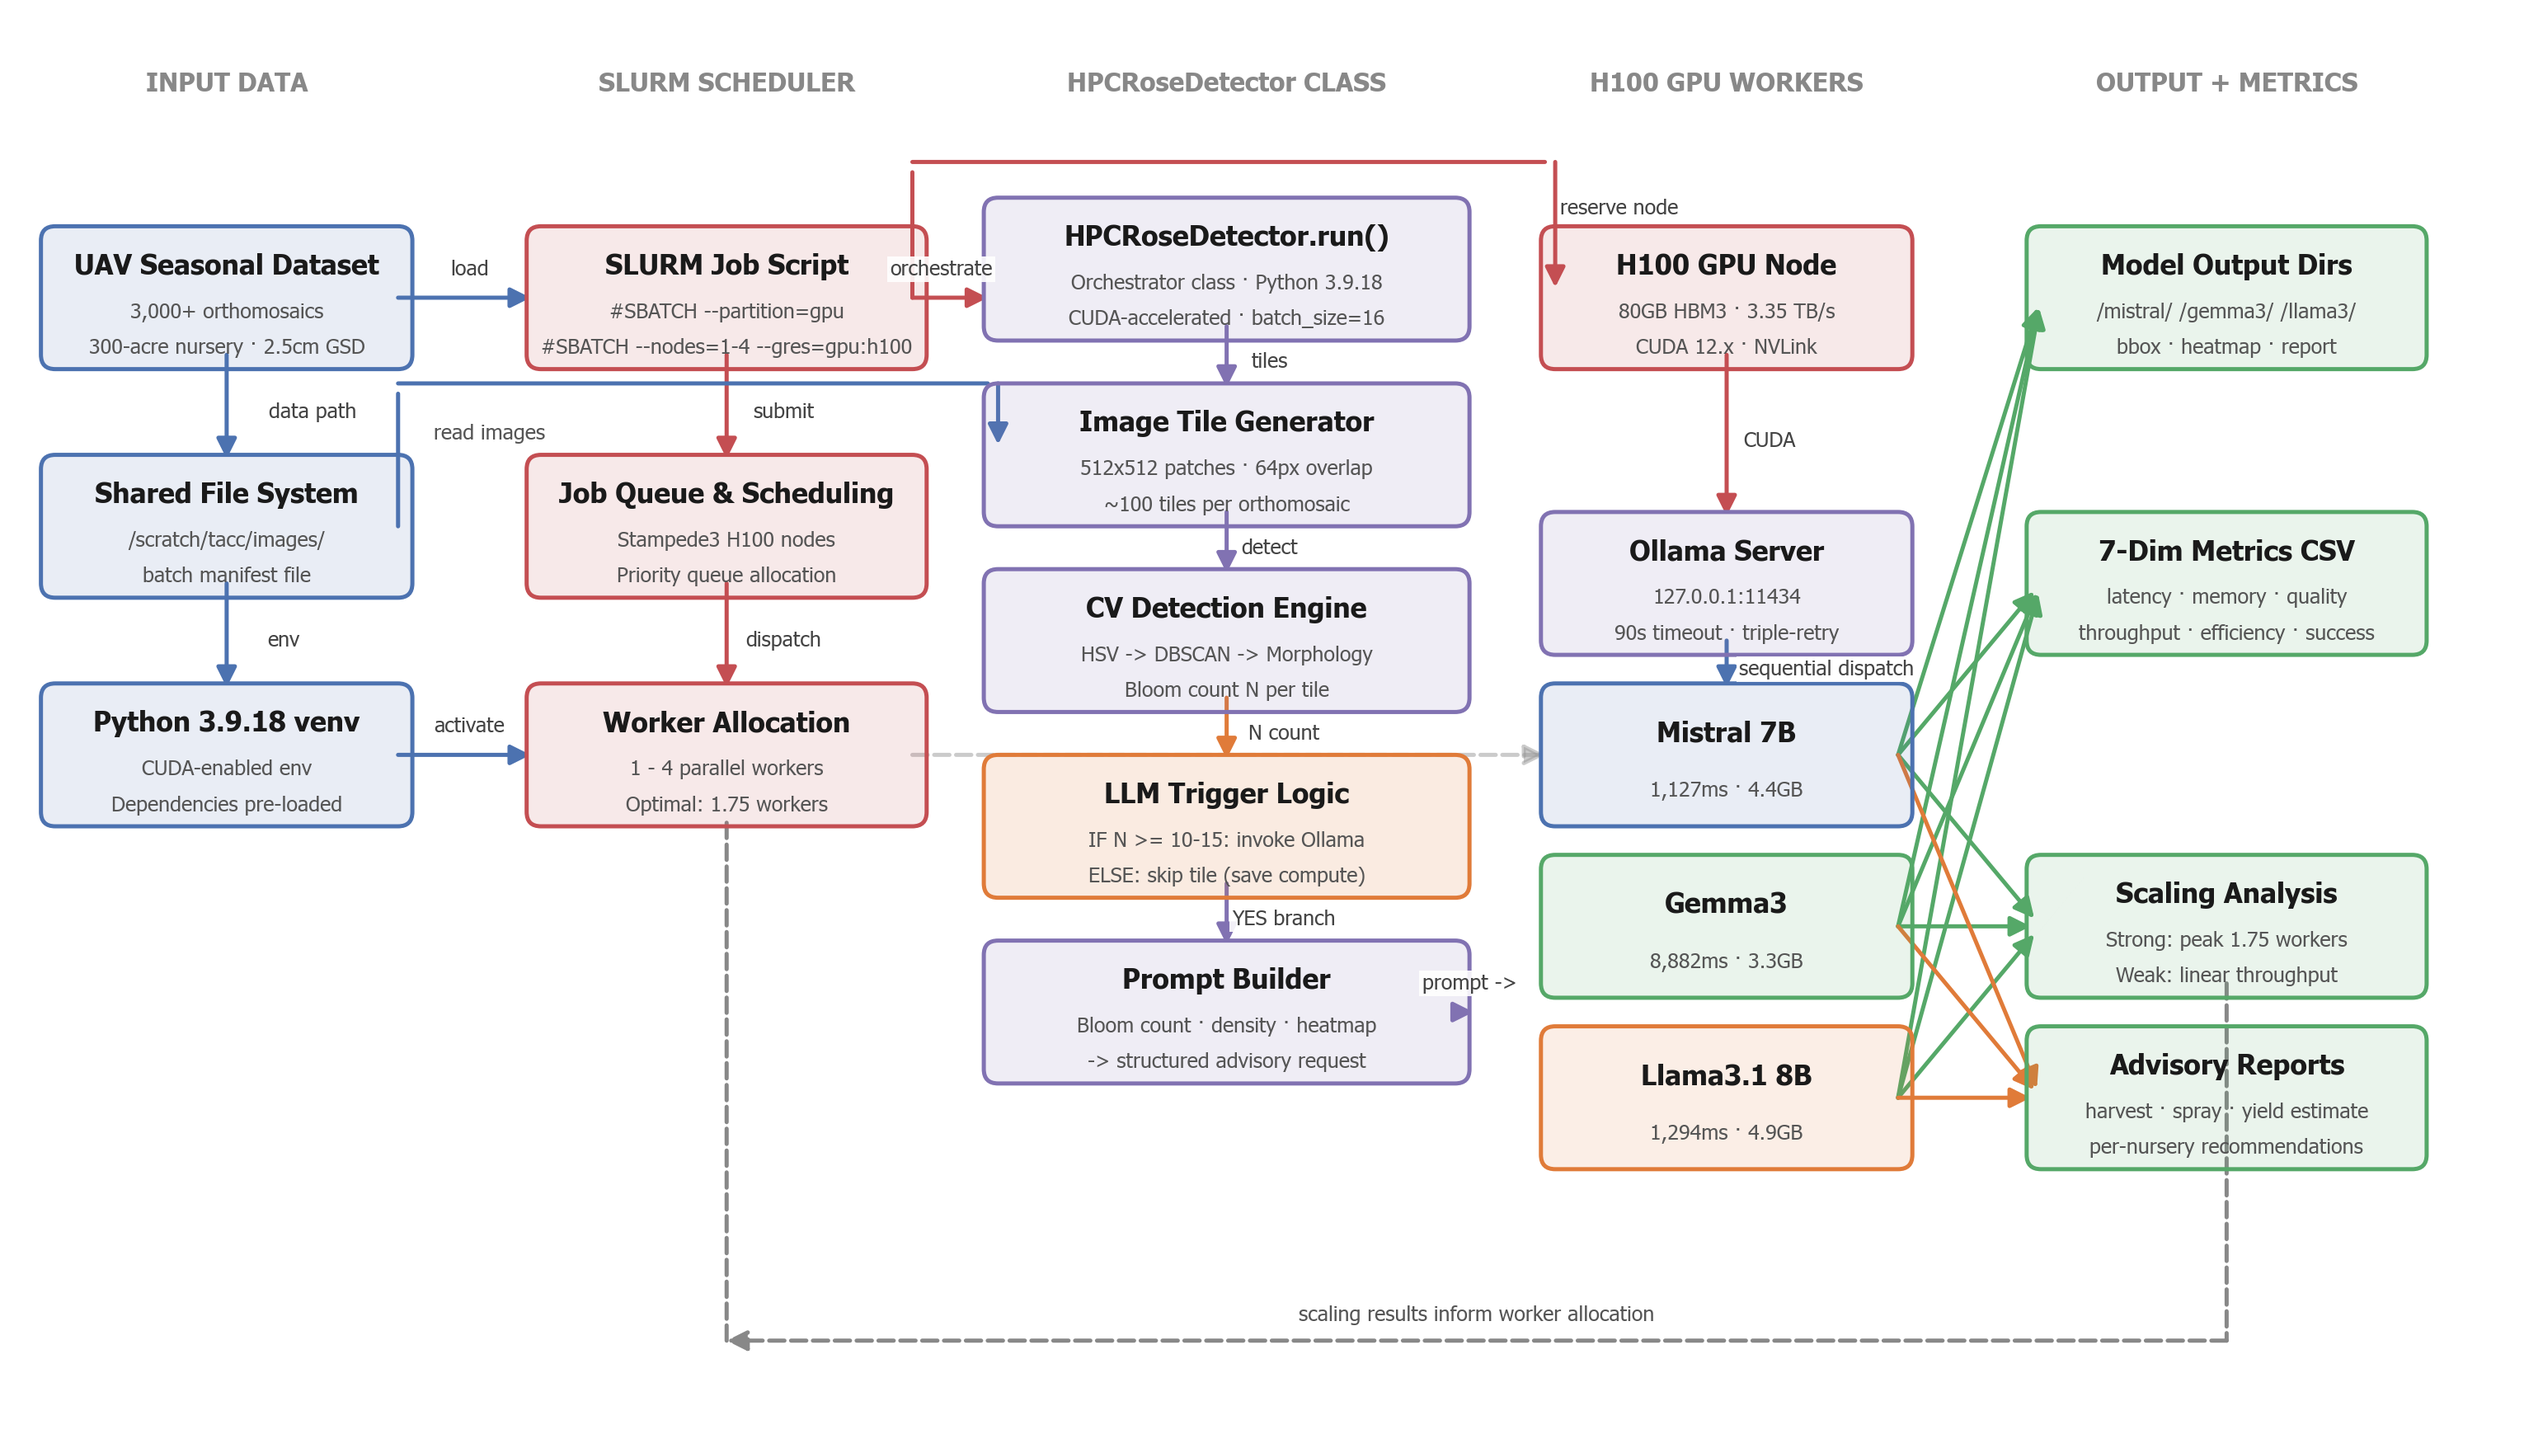
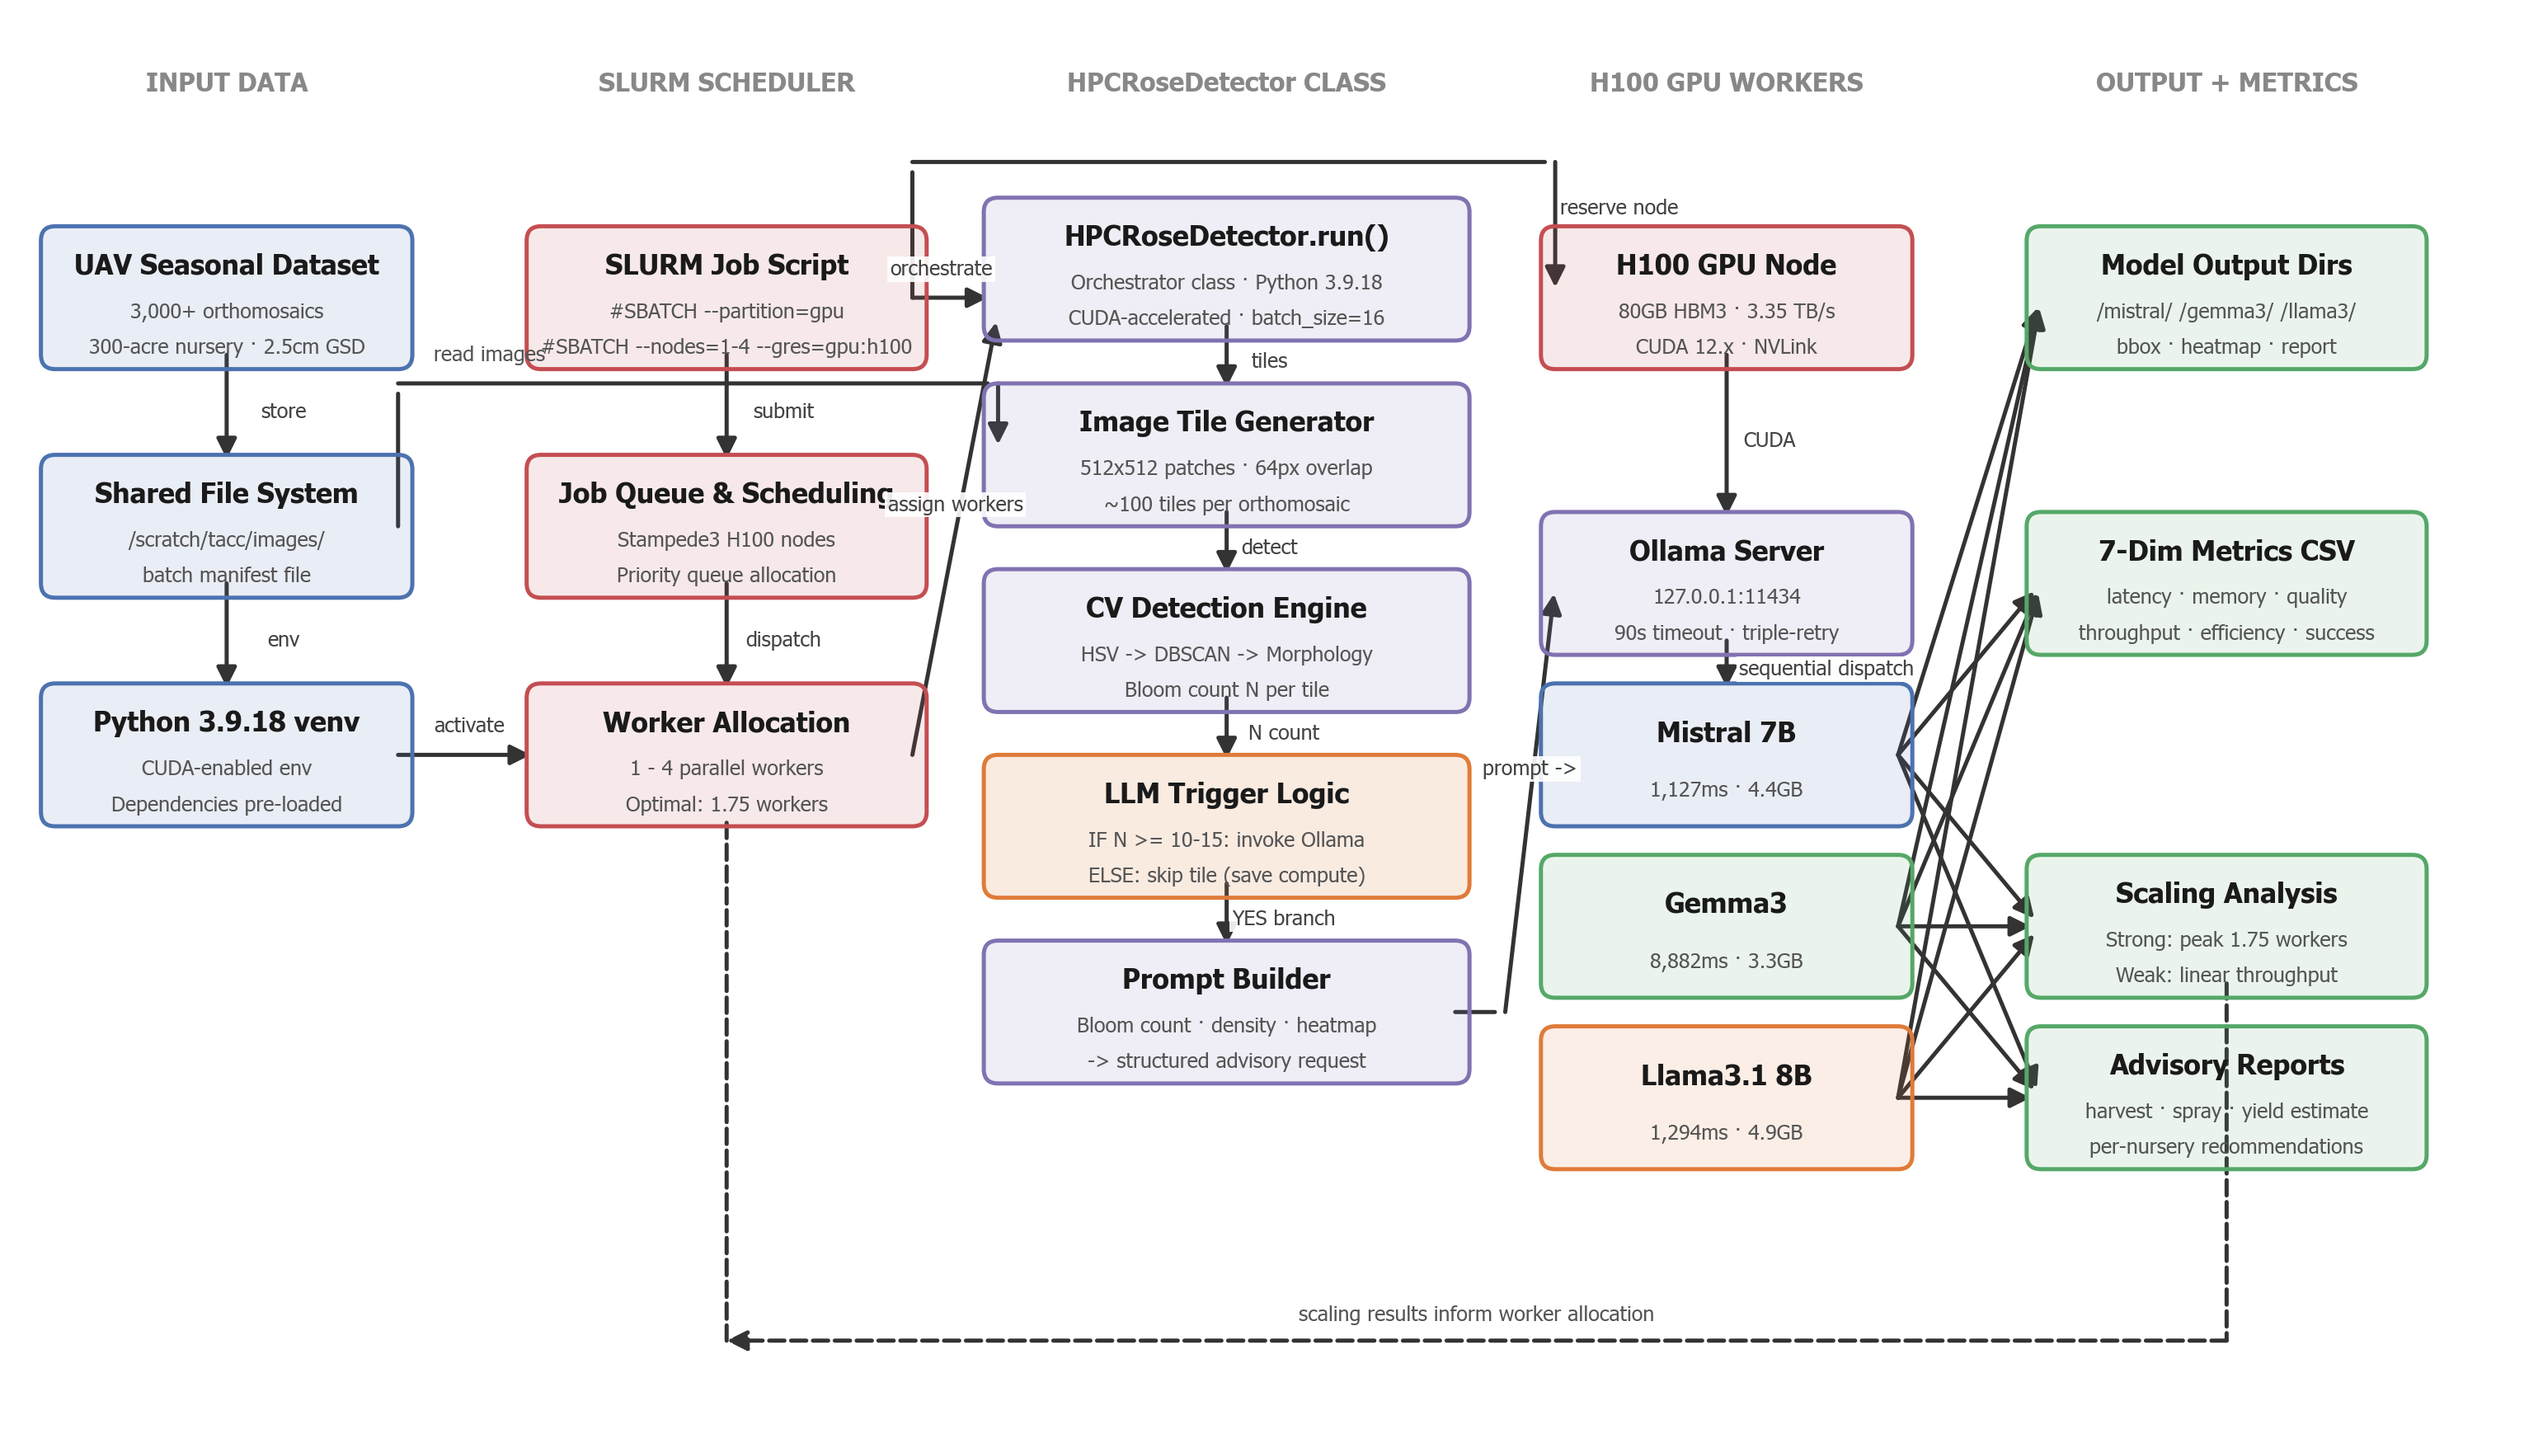
feat: finalize diagram for PhD qualifying exam

diff --git a/create_hpc_architecture_diagram.py b/create_hpc_architecture_diagram.py
@@ -178,7 +178,7 @@ def create_diagram(save_path, fmt="png"):
     arrow(b1_2["r"], b1_2["cy"], b1_2["r"], read_y, arrow_style="-")
     arrow(b1_2["r"], read_y, b3_2["l"], read_y, arrow_style="-")
     arrow(b3_2["l"], read_y, b3_2["l"], b3_2["cy"])
-    add_text(b1_2["r"] + 0.25, read_y - 0.35, "read images", fontsize=6, color=LABEL_COL, style="italic", ha="left")
+    add_text(b1_2["r"] + 0.25, read_y + 0.2, "read images", fontsize=6, color=LABEL_COL, style="italic", ha="left")
     
     # LLM Trigger Logic - highlighted with Orange
     b3_4 = box(cols[2], y3_start - y3_gap*3, bw_col3, bh_col3, "LLM Trigger Logic",
@@ -228,8 +228,10 @@ def create_diagram(save_path, fmt="png"):
     arrow(b2_1["r"], reserve_y, b4_1["l"], reserve_y, arrow_style="-")
     arrow(b4_1["l"], reserve_y, b4_1["l"], b4_1["cy"], label="reserve node", lbl_off=(0.45, 0.15))
     
-    # Prompt Builder -> Ollama Server (clear CV->LLM handoff)
-    arrow(b3_5["r"], b3_5["cy"], b4_2["l"], b4_2["cy"], label="prompt ->", lbl_off=(0, 0.2))
+    # Prompt Builder -> Ollama Server (clean horizontal handoff)
+    prompt_mid_x = (b3_5["r"] + b4_2["l"]) / 2
+    arrow(b3_5["r"], b3_5["cy"], prompt_mid_x, b3_5["cy"], arrow_style="-")
+    arrow(prompt_mid_x, b3_5["cy"], b4_2["l"], b4_2["cy"], label="prompt ->", lbl_off=(0, 0.2))
     
     # Worker Allocation -> HPCRoseDetector (assign workers)
     arrow(b2_3["r"], b2_3["cy"], b3_1["l"], b3_1["cy"]-0.3, label="assign workers", lbl_off=(0.0, 0.2))

diff --git a/commit_log.md b/commit_log.md
@@ -575,3 +575,7 @@ Starting 150 commits at Fri Mar 20 17:43:00 CDT 2026
 - **Time:** 2026-03-20 20:11:44
 - **Change:** docs: add research methodology notes
 
+### Commit 143 / 150
+- **Time:** 2026-03-20 20:12:45
+- **Change:** feat: finalize diagram for PhD qualifying exam
+
